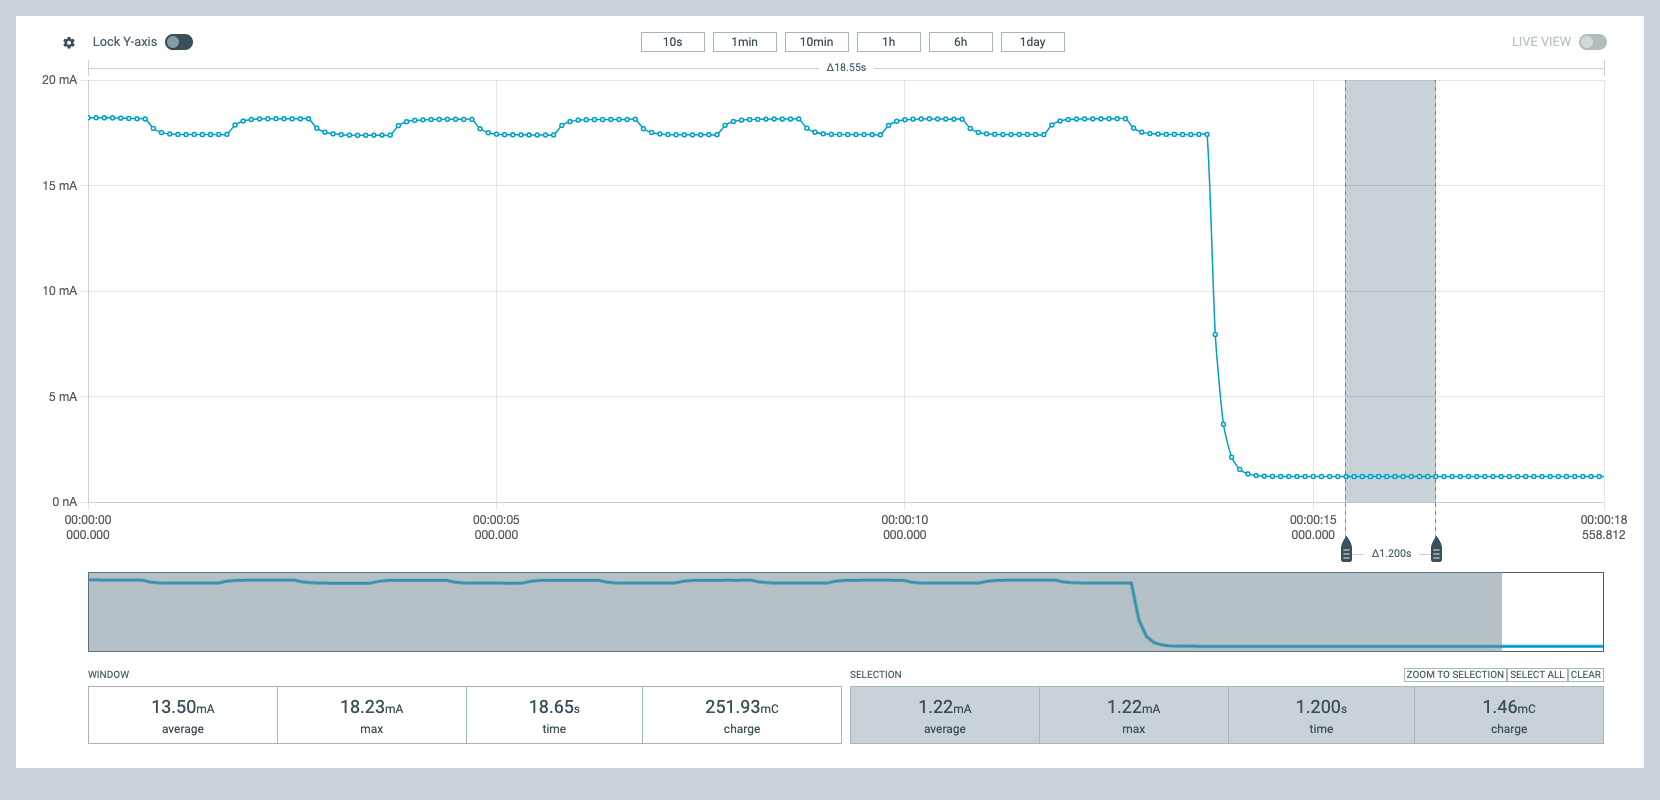
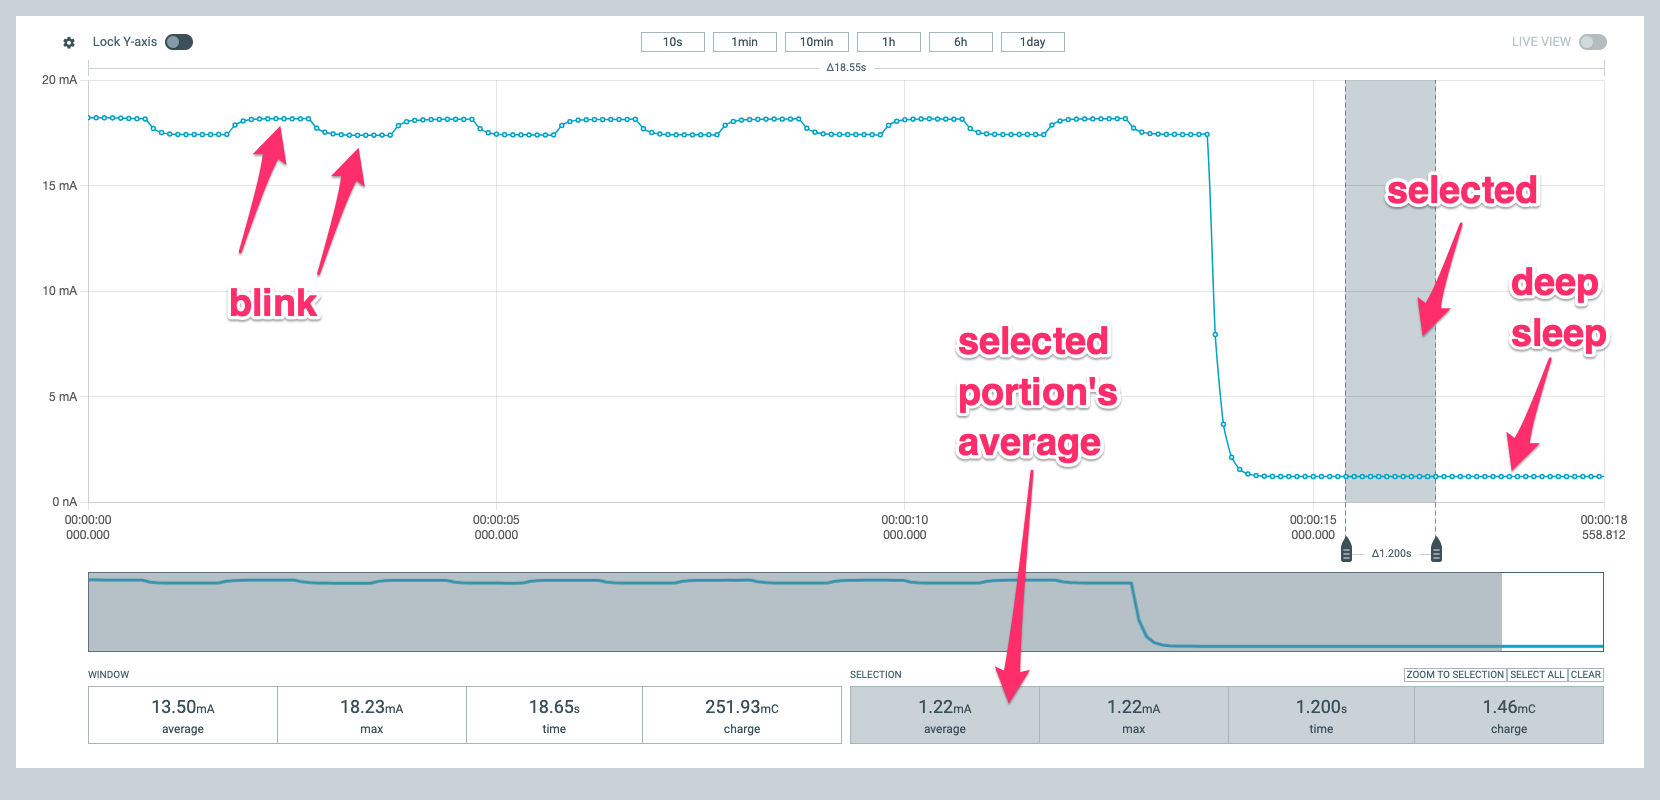
docs: add notes for nRF power profiler tutorial

diff --git a/_tutorials/nrf-power-profiler-esp32c3.md b/_tutorials/nrf-power-profiler-esp32c3.md
@@ -52,3 +52,5 @@ has_code: false
     ![]({{ site.url }}/assets/images/tutorials/nrf-power-profiler-esp32c3-params.png)
 1. Press the push button to wake up the ESP32-C3 to blink and then go to deep sleep.
     ![]({{ site.url }}/assets/images/tutorials/nrf-power-profiler-esp32c3-graph.png)
+1. Select the portion of the graph with `SHIFT` to display the average current and other values.
+1. Calculate [average battery life](https://www.digikey.com/en/resources/conversion-calculators/conversion-calculator-battery-life) using the average current and battery capacity.
